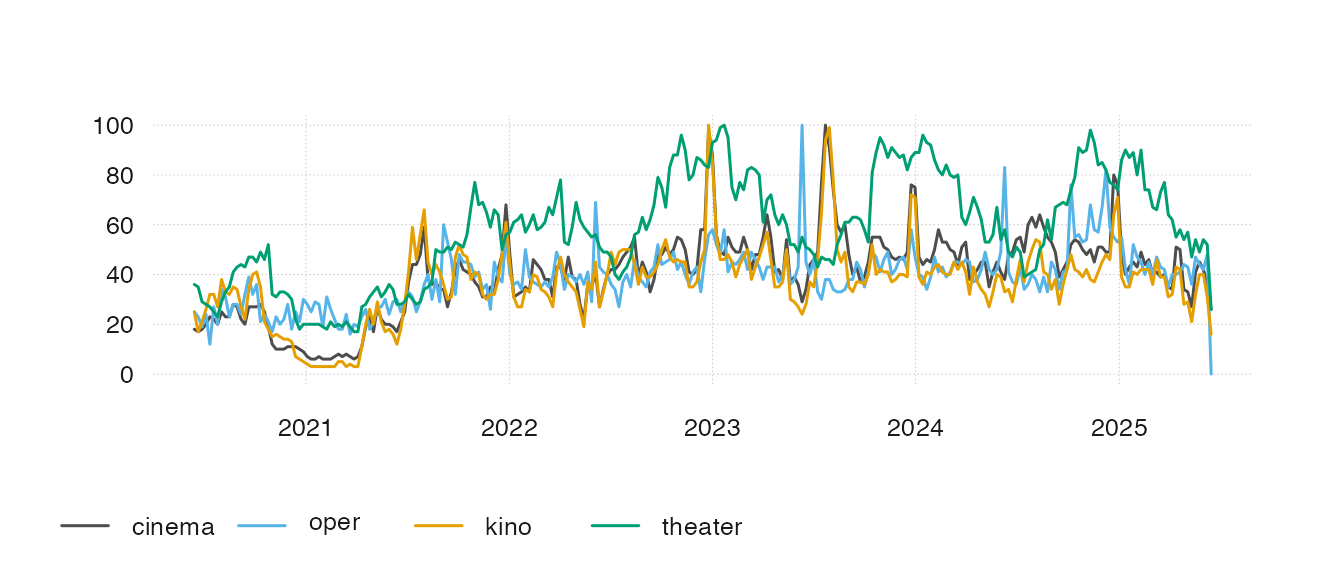
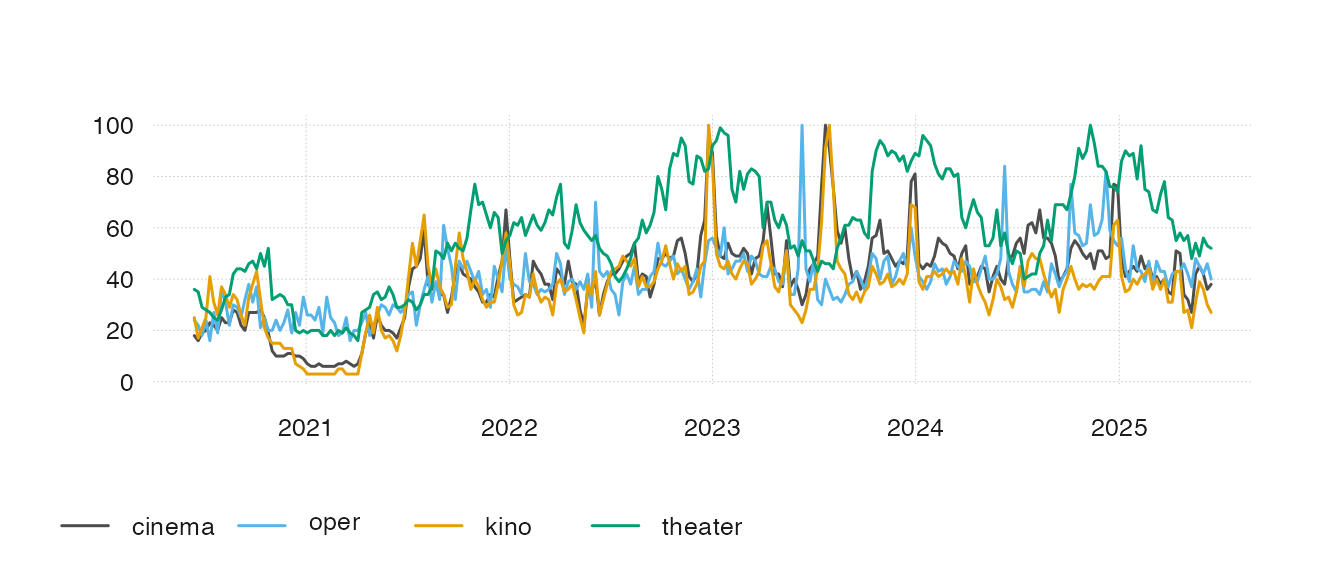
Deploy from Github Actions build 15723914736 [ci skip]
Build URL: https://github.com/trendecon/trendecon/actions/runs/15723914736
Commit: 213881ece17ef253cdcbf51aa3e91eeff5a1deed

diff --git a/reference/ts_gtrends.html b/reference/ts_gtrends.html
@@ -173,16 +173,16 @@ either the keyword, or the category.</p>
 <span class="r-out co"><span class="r-pr">#&gt;</span> <span style="color: #949494;"># A tibble: 262 × 2</span></span>
 <span class="r-out co"><span class="r-pr">#&gt;</span>    time       value</span>
 <span class="r-out co"><span class="r-pr">#&gt;</span>    <span style="color: #949494; font-style: italic;">&lt;date&gt;</span>     <span style="color: #949494; font-style: italic;">&lt;int&gt;</span></span>
-<span class="r-out co"><span class="r-pr">#&gt;</span> <span style="color: #BCBCBC;"> 1</span> 2020-06-14    19</span>
-<span class="r-out co"><span class="r-pr">#&gt;</span> <span style="color: #BCBCBC;"> 2</span> 2020-06-21    25</span>
-<span class="r-out co"><span class="r-pr">#&gt;</span> <span style="color: #BCBCBC;"> 3</span> 2020-06-28    18</span>
-<span class="r-out co"><span class="r-pr">#&gt;</span> <span style="color: #BCBCBC;"> 4</span> 2020-07-05    12</span>
-<span class="r-out co"><span class="r-pr">#&gt;</span> <span style="color: #BCBCBC;"> 5</span> 2020-07-12    21</span>
-<span class="r-out co"><span class="r-pr">#&gt;</span> <span style="color: #BCBCBC;"> 6</span> 2020-07-19    20</span>
-<span class="r-out co"><span class="r-pr">#&gt;</span> <span style="color: #BCBCBC;"> 7</span> 2020-07-26    19</span>
-<span class="r-out co"><span class="r-pr">#&gt;</span> <span style="color: #BCBCBC;"> 8</span> 2020-08-02    17</span>
-<span class="r-out co"><span class="r-pr">#&gt;</span> <span style="color: #BCBCBC;"> 9</span> 2020-08-09    19</span>
-<span class="r-out co"><span class="r-pr">#&gt;</span> <span style="color: #BCBCBC;">10</span> 2020-08-16    20</span>
+<span class="r-out co"><span class="r-pr">#&gt;</span> <span style="color: #BCBCBC;"> 1</span> 2020-06-14    27</span>
+<span class="r-out co"><span class="r-pr">#&gt;</span> <span style="color: #BCBCBC;"> 2</span> 2020-06-21    27</span>
+<span class="r-out co"><span class="r-pr">#&gt;</span> <span style="color: #BCBCBC;"> 3</span> 2020-06-28    16</span>
+<span class="r-out co"><span class="r-pr">#&gt;</span> <span style="color: #BCBCBC;"> 4</span> 2020-07-05    13</span>
+<span class="r-out co"><span class="r-pr">#&gt;</span> <span style="color: #BCBCBC;"> 5</span> 2020-07-12    16</span>
+<span class="r-out co"><span class="r-pr">#&gt;</span> <span style="color: #BCBCBC;"> 6</span> 2020-07-19    21</span>
+<span class="r-out co"><span class="r-pr">#&gt;</span> <span style="color: #BCBCBC;"> 7</span> 2020-07-26    22</span>
+<span class="r-out co"><span class="r-pr">#&gt;</span> <span style="color: #BCBCBC;"> 8</span> 2020-08-02    20</span>
+<span class="r-out co"><span class="r-pr">#&gt;</span> <span style="color: #BCBCBC;"> 9</span> 2020-08-09    17</span>
+<span class="r-out co"><span class="r-pr">#&gt;</span> <span style="color: #BCBCBC;">10</span> 2020-08-16    24</span>
 <span class="r-out co"><span class="r-pr">#&gt;</span> <span style="color: #949494;"># ℹ 252 more rows</span></span>
 <span class="r-in"><span><span class="fu">tsbox</span><span class="fu">::</span><span class="fu"><a href="https://docs.ropensci.org/tsbox/reference/ts_plot.html" class="external-link">ts_plot</a></span><span class="op">(</span><span class="va">x</span><span class="op">)</span></span></span>
 <span class="r-plt img"><img src="ts_gtrends-1.png" alt="" width="700" height="433"></span>

diff --git a/reference/ts_gtrends_index.html b/reference/ts_gtrends_index.html
@@ -132,27 +132,9 @@ normalized.</p></dd>
     <h2>Examples</h2>
     <div class="sourceCode"><pre class="sourceCode r"><code><span class="r-in"><span></span></span>
 <span class="r-in"><span><span class="fu">tsbox</span><span class="fu">::</span><span class="fu"><a href="https://docs.ropensci.org/tsbox/reference/ts_plot.html" class="external-link">ts_plot</a></span><span class="op">(</span><span class="fu">ts_gtrends_index</span><span class="op">(</span><span class="fu"><a href="https://rdrr.io/r/base/c.html" class="external-link">c</a></span><span class="op">(</span> <span class="st">"Mango"</span>, <span class="st">"Zara"</span><span class="op">)</span><span class="op">)</span><span class="op">)</span></span></span>
-<span class="r-msg co"><span class="r-pr">#&gt;</span> Downloading data for 2007-01-01 2025-06-15</span>
-<span class="r-msg co"><span class="r-pr">#&gt;</span> Server response: 429 - too many requests</span>
-<span class="r-msg co"><span class="r-pr">#&gt;</span> Waiting for 5 seconds</span>
-<span class="r-msg co"><span class="r-pr">#&gt;</span> Retrying...</span>
-<span class="r-msg co"><span class="r-pr">#&gt;</span> Attempt 2/5</span>
-<span class="r-msg co"><span class="r-pr">#&gt;</span> Server response: 429 - too many requests</span>
-<span class="r-msg co"><span class="r-pr">#&gt;</span> Waiting for 10 seconds</span>
-<span class="r-msg co"><span class="r-pr">#&gt;</span> Retrying...</span>
-<span class="r-msg co"><span class="r-pr">#&gt;</span> Attempt 3/5</span>
-<span class="r-msg co"><span class="r-pr">#&gt;</span> Server response: 429 - too many requests</span>
-<span class="r-msg co"><span class="r-pr">#&gt;</span> Waiting for 15 seconds</span>
-<span class="r-msg co"><span class="r-pr">#&gt;</span> Retrying...</span>
-<span class="r-msg co"><span class="r-pr">#&gt;</span> Attempt 4/5</span>
-<span class="r-msg co"><span class="r-pr">#&gt;</span> Server response: 429 - too many requests</span>
-<span class="r-msg co"><span class="r-pr">#&gt;</span> Waiting for 20 seconds</span>
-<span class="r-msg co"><span class="r-pr">#&gt;</span> Retrying...</span>
-<span class="r-msg co"><span class="r-pr">#&gt;</span> Attempt 5/5</span>
-<span class="r-msg co"><span class="r-pr">#&gt;</span> Server response: 429 - too many requests</span>
-<span class="r-msg co"><span class="r-pr">#&gt;</span> Waiting for 25 seconds</span>
-<span class="r-msg co"><span class="r-pr">#&gt;</span> Retrying...</span>
-<span class="r-err co"><span class="r-pr">#&gt;</span> <span class="error">Error in gtrends_with_backoff(keyword, geo, time, gprop, category, hl,     low_search_volume, cookie_url, tz, onlyInterest, retry, wait,     quiet, attempt + 1):</span> Retries exhausted!</span>
+<span class="r-msg co"><span class="r-pr">#&gt;</span> Downloading data for 2007-01-01 2025-06-18</span>
+<span class="r-msg co"><span class="r-pr">#&gt;</span> Downloading data for 2007-01-01 2025-06-18</span>
+<span class="r-plt img"><img src="ts_gtrends_index-1.png" alt="" width="700" height="433"></span>
 </code></pre></div>
     </div>
   </div>

diff --git a/articles/intro.html b/articles/intro.html
@@ -145,8 +145,8 @@ score):</p>
 <span><span class="co">#&gt;   id     time       value</span></span>
 <span><span class="co">#&gt;   <span style="color: #949494; font-style: italic;">&lt;chr&gt;</span>  <span style="color: #949494; font-style: italic;">&lt;date&gt;</span>     <span style="color: #949494; font-style: italic;">&lt;int&gt;</span></span></span>
 <span><span class="co">#&gt; <span style="color: #BCBCBC;">1</span> cinema 2020-06-14    18</span></span>
-<span><span class="co">#&gt; <span style="color: #BCBCBC;">2</span> cinema 2020-06-21    17</span></span>
-<span><span class="co">#&gt; <span style="color: #BCBCBC;">3</span> cinema 2020-06-28    18</span></span>
+<span><span class="co">#&gt; <span style="color: #BCBCBC;">2</span> cinema 2020-06-21    16</span></span>
+<span><span class="co">#&gt; <span style="color: #BCBCBC;">3</span> cinema 2020-06-28    19</span></span>
 <span><span class="co">#&gt; <span style="color: #BCBCBC;">4</span> cinema 2020-07-05    20</span></span>
 <span><span class="co">#&gt; <span style="color: #BCBCBC;">5</span> cinema 2020-07-12    23</span></span>
 <span><span class="co">#&gt; <span style="color: #BCBCBC;">6</span> cinema 2020-07-19    22</span></span></code></pre></div>
